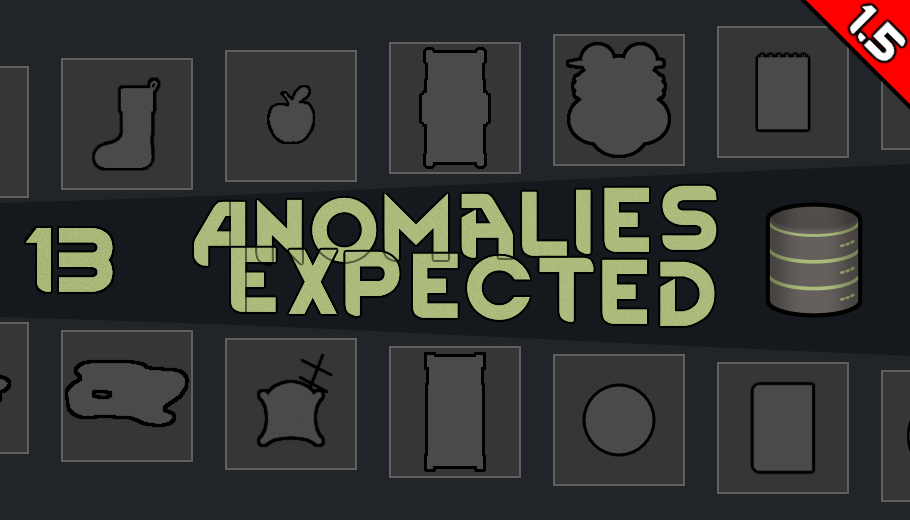
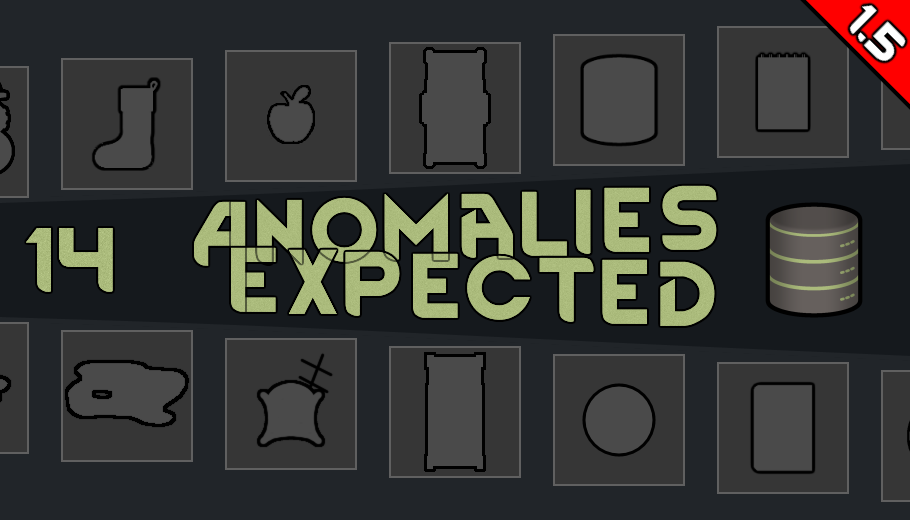
Added images and textures for EntityDatabase Prepared text for update

Changed region(s): [[0.6154, 0.0615, 0.7385, 0.3077], [0.0615, 0.4308, 0.1231, 0.5846], [0.0, 0.1538, 0.0308, 0.3385]]

diff --git a/README.md b/README.md
@@ -26,6 +26,7 @@ While usually I try to explain in mod description how mod content work in detail
 ![Text](/Mod%20Page/Images/Content/AEDesc11.png)
 ![Text](/Mod%20Page/Images/Content/AEDesc12.png)
 ![Text](/Mod%20Page/Images/Content/AEDesc13.png)
+![Text](/Mod%20Page/Images/Content/AEDesc14.png)
 
 Anomalies Classification:
 * Class 0 anomaly "Safe".
@@ -35,7 +36,7 @@ Anomalies Classification:
 * Class 4 anomaly "Critical".
 
 Currently available:
-* 6 Anomaly of basic category
+* 7 Anomaly of basic category
 * 7 Anomaly of advanced category
 
 ## Links
